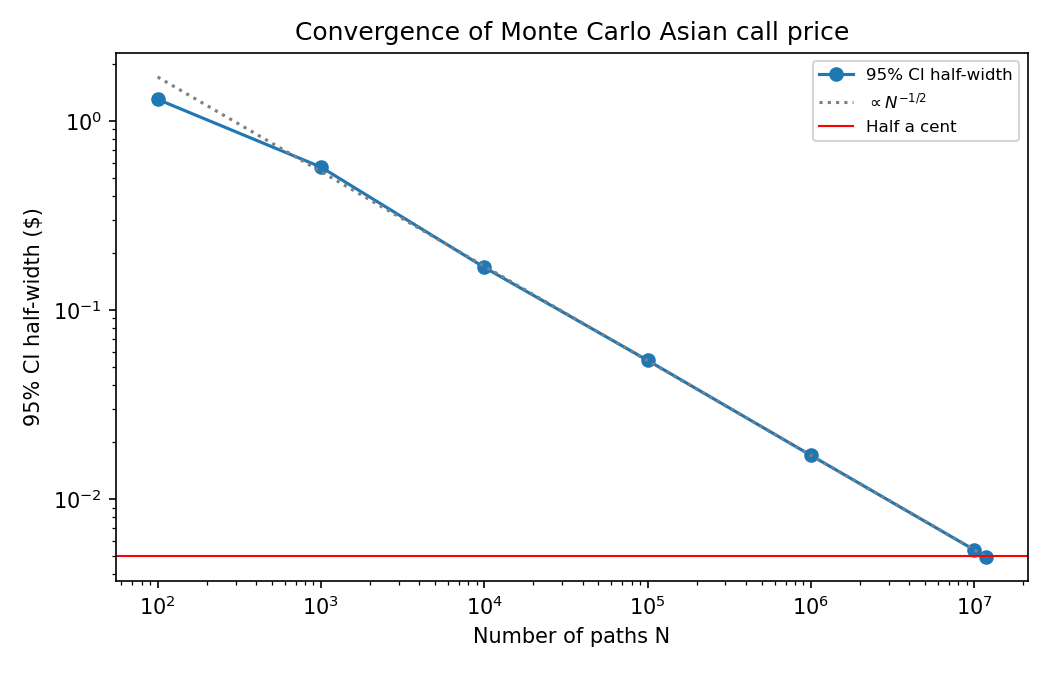
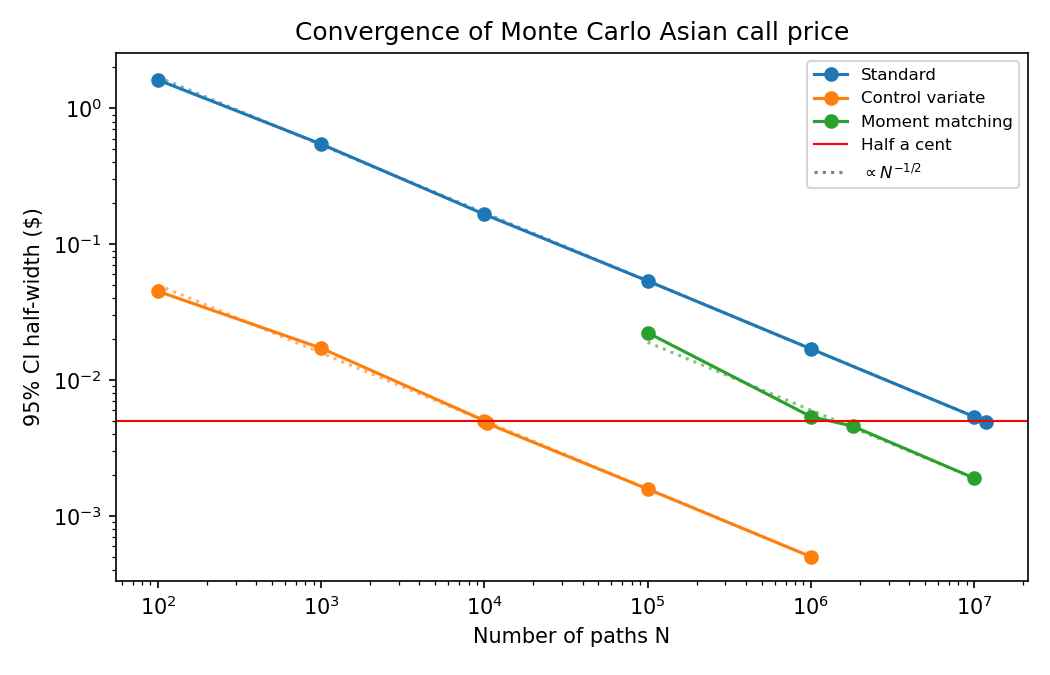
Add control variate and moment matching to Asian call, start notes
Control variate with the geometric Asian call cuts variance ~1,100x;
moment matching ~8x, with batch-mean standard errors and a measured
small-batch bias. notes.md collects results for the final report.

diff --git a/Monte Carlo Pricing of an Asian Call.py b/Monte Carlo Pricing of an Asian Call.py
@@ -1,6 +1,9 @@
 # Monte Carlo pricing of an arithmetic-average Asian call under Black-Scholes-Merton,
 # with a convergence study. There is no closed form for the arithmetic Asian, so the
 # simulator is validated on the geometric Asian call, which does have one.
+# Two variance reduction methods are compared with standard Monte Carlo:
+#   2a. control variate, using the geometric Asian call as the control
+#   2b. moment matching, rescaling simulated prices to their known means
 import os
 import time
 import numpy as np
@@ -14,6 +17,8 @@ from scipy.stats import norm
 S0, K, T, r, q, sigma, m = 100.0, 100.0, 1.0, 0.10, 0.0, 0.20, 50
 CENT = 0.005    # target 95% CI half-width: half a cent
 CHUNK = 10**5   # paths simulated at once; 10^5 x 50 doubles is 40 MB per array
+MM_BATCH = 10**4  # paths per moment-matching batch; its bias shrinks like 1/batch size
+DISC = np.exp(-r * T)
 PLOT_DIR = os.path.join(os.path.dirname(os.path.abspath(__file__)), "plots")
 
 
@@ -27,24 +32,37 @@ def geometric_asian_call(S0, K, T, r, q, sigma, m):
     return np.exp(-r * T) * (np.exp(mu + 0.5 * v) * norm.cdf(d1) - K * norm.cdf(d2))
 
 
-# Discounted arithmetic and geometric Asian call payoffs for n simulated paths.
-# Works in place on one (n, m) array to avoid temporary copies.
-def chunk_payoffs(n, rng):
+GEO_EXACT = geometric_asian_call(S0, K, T, r, q, sigma, m)
+
+
+# Log prices log S_t1..log S_tm for n paths, built in place in one (n, m) array
+def log_paths(n, rng):
     dt = T / m
     X = rng.standard_normal((n, m))
     X *= sigma * np.sqrt(dt)
     X += (r - q - 0.5 * sigma**2) * dt
     np.cumsum(X, axis=1, out=X)
     X += np.log(S0)                     # X[:, i] = log S_{t_(i+1)}
+    return X
+
+
+# Discounted arithmetic and geometric Asian call payoffs for n simulated paths
+def chunk_payoffs(n, rng):
+    X = log_paths(n, rng)
     geo_avg = np.exp(X.mean(axis=1))
     np.exp(X, out=X)
     arith_avg = X.mean(axis=1)          # average over t_1..t_m, excluding S0
-    disc = np.exp(-r * T)
-    return disc * np.maximum(arith_avg - K, 0.0), disc * np.maximum(geo_avg - K, 0.0)
+    return DISC * np.maximum(arith_avg - K, 0.0), DISC * np.maximum(geo_avg - K, 0.0)
 
 
-# Monte Carlo estimates for N paths, simulated in chunks. Running sums of Y and
+def mean_se(s, s2, N):
+    mean = s / N
+    return mean, np.sqrt((s2 - N * mean**2) / (N - 1) / N)
+
+
+# Standard Monte Carlo for N paths, simulated in chunks. Running sums of Y and
 # Y^2 give the same mean and standard error as one array of all N payoffs.
+# Also returns the geometric Asian estimate from the same paths for validation.
 def mc_asian(N, rng, chunk=CHUNK):
     sums = np.zeros(4)  # sum Y_arith, sum Y_arith^2, sum Y_geo, sum Y_geo^2
     done = 0
@@ -53,34 +71,111 @@ def mc_asian(N, rng, chunk=CHUNK):
         Ya, Yg = chunk_payoffs(n, rng)
         sums += [Ya.sum(), Ya @ Ya, Yg.sum(), Yg @ Yg]
         done += n
+    return mean_se(sums[0], sums[1], N) + mean_se(sums[2], sums[3], N)
 
-    def mean_se(s, s2):
-        mean = s / N
-        return mean, np.sqrt((s2 - N * mean**2) / (N - 1) / N)
 
-    return mean_se(sums[0], sums[1]) + mean_se(sums[2], sums[3])
+# Optimal control variate coefficient b = Cov(Y_arith, Y_geo) / Var(Y_geo),
+# estimated on a separate pilot so the main estimator stays unbiased
+def control_variate_coef(n, rng):
+    Ya, Yg = chunk_payoffs(n, rng)
+    return np.cov(Ya, Yg)[0, 1] / Yg.var(ddof=1)
+
+
+# 2a. Control variate: Y_cv = Y_arith - b (Y_geo - E[Y_geo]). The correction has
+# mean zero, so Y_cv is unbiased, and its variance is (1 - rho^2) Var(Y_arith).
+def mc_control_variate(N, rng, b, chunk=CHUNK):
+    s = s2 = 0.0
+    done = 0
+    while done < N:
+        n = min(chunk, N - done)
+        Ya, Yg = chunk_payoffs(n, rng)
+        Y = Ya - b * (Yg - GEO_EXACT)
+        s, s2 = s + Y.sum(), s2 + Y @ Y
+        done += n
+    return mean_se(s, s2, N)
+
+
+# 2b. Moment matching: within a batch of n paths, rescale the prices at each date
+# so their sample mean equals the true mean E[S_t] = S0 exp((r - q) t). This makes
+# the paths in a batch dependent, so the usual i.i.d. standard error no longer
+# applies; it is computed instead from independent batch means. Dividing by a
+# sample mean also biases the estimator by O(1/n), so batches must be large.
+MM_TARGETS = S0 * np.exp((r - q) * T / m * np.arange(1, m + 1))
+
+
+def mc_moment_matching(N, rng, n=MM_BATCH):
+    batches = N // n
+    per_chunk = max(1, CHUNK // n)  # small batches are matched several at a time
+    means = np.empty(batches)
+    for i in range(0, batches, per_chunk):
+        k = min(per_chunk, batches - i)
+        S = np.exp(log_paths(k * n, rng)).reshape(k, n, m)
+        S *= MM_TARGETS / S.mean(axis=1, keepdims=True)
+        means[i:i + k] = DISC * np.maximum(S.mean(axis=2) - K, 0.0).mean(axis=1)
+    return means.mean(), means.std(ddof=1) / np.sqrt(batches)
+
+
+# Paths needed for a 95% CI half-width of half a cent, given a per-path standard
+# deviation from a pilot run. The margin covers sampling noise in the pilot's
+# own estimate: 2% suits i.i.d. pilots. Moment matching gets 30%: its pilot
+# standard deviation comes from 400 batch means (~3.5% noise, ~7% in N), and the
+# final run's own standard error comes from only ~200 batch means (~5% noise).
+# N is rounded up to a whole number of batches.
+def paths_for_cent(sd, margin=1.02, multiple=1):
+    N = int(np.ceil(margin * (1.96 * sd / CENT) ** 2))
+    return -(-N // multiple) * multiple
 
 
 # Best-of-`repeats` wall time; large runs are timed once since they take seconds
-def timed(N, rng):
+def timed(fn, N, rng):
     repeats = 3 if N <= 10**6 else 1
     best = np.inf
     for _ in range(repeats):
         t0 = time.perf_counter()
-        result = mc_asian(N, rng)
+        result = fn(N, rng)
         best = min(best, time.perf_counter() - t0)
     return result, best
 
 
-def plot_results(df):
-    os.makedirs(PLOT_DIR, exist_ok=True)
+def convergence_table(fn, Ns, rng):
+    rows = []
+    for N in Ns:
+        (price, se), elapsed = timed(fn, N, rng)
+        rows.append({
+            "N": N,
+            "MC price": price,
+            "Std error": se,
+            "CI lower": price - 1.96 * se,
+            "CI upper": price + 1.96 * se,
+            "Time (s)": elapsed,
+            "Cent accurate": 1.96 * se < CENT,
+        })
+    return pd.DataFrame(rows)
 
-    # CI half-width against N on log-log axes, with a N^(-1/2) guide
+
+def print_table(title, df):
+    print(f"{title}\n" + df.to_string(index=False, formatters={
+        "N": "{:,}".format,
+        "MC price": "{:.4f}".format,
+        "Std error": "{:.5f}".format,
+        "CI lower": "{:.4f}".format,
+        "CI upper": "{:.4f}".format,
+        "Time (s)": "{:.2e}".format,
+    }) + "\n")
+
+
+def plot_results(tables):
+    os.makedirs(PLOT_DIR, exist_ok=True)
+    colors = {"Standard": "C0", "Control variate": "C1", "Moment matching": "C2"}
+
+    # CI half-width against N on log-log axes, with N^(-1/2) guides
     fig, ax = plt.subplots(figsize=(7, 4.5))
-    Ns = df["N"].to_numpy(dtype=float)
-    ax.loglog(Ns, 1.96 * df["Std error"], "o-", label="95% CI half-width")
-    ax.loglog(Ns, 1.96 * df["Std error"].iloc[-1] * np.sqrt(Ns[-1] / Ns), ":", color="gray", label=r"$\propto N^{-1/2}$")
+    for label, df in tables.items():
+        Ns = df["N"].to_numpy(dtype=float)
+        ax.loglog(Ns, 1.96 * df["Std error"], "o-", color=colors[label], label=label)
+        ax.loglog(Ns, 1.96 * df["Std error"].iloc[-1] * np.sqrt(Ns[-1] / Ns), ":", color=colors[label], alpha=0.6)
     ax.axhline(CENT, color="red", lw=1, label="Half a cent")
+    ax.plot([], [], ":", color="gray", label=r"$\propto N^{-1/2}$")
     ax.set_xlabel("Number of paths N")
     ax.set_ylabel("95% CI half-width ($)")
     ax.set_title("Convergence of Monte Carlo Asian call price")
@@ -88,11 +183,14 @@ def plot_results(df):
     fig.tight_layout()
     fig.savefig(os.path.join(PLOT_DIR, "asian_convergence_error.png"), dpi=150)
 
-    # Price estimates with 95% CIs against N, around the largest-N estimate
+    # Price estimates with 95% CIs against N, around the most accurate estimate
     fig, ax = plt.subplots(figsize=(7, 4.5))
-    ax.errorbar(Ns, df["MC price"], yerr=1.96 * df["Std error"], fmt="o", capsize=3, label="MC estimate")
-    ax.axhline(df["MC price"].iloc[-1], color="black", lw=1,
-               label=f"Largest-N estimate {df['MC price'].iloc[-1]:.4f}")
+    for (label, df), shift in zip(tables.items(), (0.92, 1.0, 1.08)):
+        ax.errorbar(df["N"] * shift, df["MC price"], yerr=1.96 * df["Std error"],
+                    fmt="o", color=colors[label], capsize=3, label=label)
+    best = min(tables.values(), key=lambda df: df["Std error"].iloc[-1])
+    ax.axhline(best["MC price"].iloc[-1], color="black", lw=1,
+               label=f"Most accurate estimate {best['MC price'].iloc[-1]:.4f}")
     ax.set_xscale("log")
     ax.set_xlabel("Number of paths N")
     ax.set_ylabel("Asian call price ($)")
@@ -105,19 +203,25 @@ def plot_results(df):
 
 if __name__ == "__main__":
     rng = np.random.default_rng(seed=42)
-    geo_exact = geometric_asian_call(S0, K, T, r, q, sigma, m)
 
-    # Pilot run estimates the payoff standard deviation, which gives the number
-    # of paths needed for a 95% CI half-width of half a cent. The 2% margin covers
-    # sampling noise in the pilot's own standard deviation estimate.
+    # Pilot runs estimate each method's per-path standard deviation, which gives
+    # the number of paths it needs for cent accuracy
     pilot = 10**6
     _, se_pilot, _, _ = mc_asian(pilot, rng)
-    payoff_sd = se_pilot * np.sqrt(pilot)
-    N_needed = int(np.ceil(1.02 * (1.96 * payoff_sd / CENT) ** 2))
+    b = control_variate_coef(10**5, rng)
+    cv = lambda N, rng: mc_control_variate(N, rng, b)
+    sd = {
+        "Standard": se_pilot * np.sqrt(pilot),
+        "Control variate": cv(pilot, rng)[1] * np.sqrt(pilot),
+        "Moment matching": mc_moment_matching(4 * pilot, rng)[1] * np.sqrt(4 * pilot),
+    }
+    N_needed = {label: paths_for_cent(sd[label]) for label in ("Standard", "Control variate")}
+    N_needed["Moment matching"] = paths_for_cent(sd["Moment matching"], 1.30, MM_BATCH)
 
+    # Standard Monte Carlo, with the geometric Asian check on the same paths
     rows, geo_rows = [], []
-    for N in sorted([10**k for k in range(2, 8)] + [N_needed]):
-        (price, se, geo_price, geo_se), elapsed = timed(N, rng)
+    for N in sorted([10**k for k in range(2, 8)] + [N_needed["Standard"]]):
+        (price, se, geo_price, geo_se), elapsed = timed(mc_asian, N, rng)
         rows.append({
             "N": N,
             "MC price": price,
@@ -131,23 +235,57 @@ if __name__ == "__main__":
             "N": N,
             "MC geo price": geo_price,
             "Std error": geo_se,
-            "Abs error": abs(geo_price - geo_exact),
-            "Exact in CI": abs(geo_price - geo_exact) <= 1.96 * geo_se,
+            "Abs error": abs(geo_price - GEO_EXACT),
+            "Exact in CI": abs(geo_price - GEO_EXACT) <= 1.96 * geo_se,
         })
+    tables = {"Standard": pd.DataFrame(rows)}
+    geo_results = pd.DataFrame(geo_rows)
 
-    results, geo_results = pd.DataFrame(rows), pd.DataFrame(geo_rows)
+    tables["Control variate"] = convergence_table(
+        cv, sorted([10**k for k in range(2, 7)] + [N_needed["Control variate"]]), rng)
+    tables["Moment matching"] = convergence_table(
+        mc_moment_matching, sorted([10**5, 10**6, 10**7, N_needed["Moment matching"]]), rng)
+
     pd.set_option("display.width", 120)
-    print("Arithmetic Asian call\n" + results.to_string(index=False, formatters={
-        "N": "{:,}".format,
-        "MC price": "{:.4f}".format,
-        "Std error": "{:.5f}".format,
-        "CI lower": "{:.4f}".format,
-        "CI upper": "{:.4f}".format,
-        "Time (s)": "{:.2e}".format,
-    }))
-    print(f"\nPayoff std dev ~ {payoff_sd:.3f}; N needed for cent accuracy ~ {N_needed:,}")
+    print_table("Arithmetic Asian call: standard Monte Carlo", tables["Standard"])
+    print_table(f"2a. Control variate (geometric Asian call, b = {b:.4f})", tables["Control variate"])
+    print_table(f"2b. Moment matching (batches of {MM_BATCH:,} paths; SE from batch means)",
+                tables["Moment matching"])
 
-    print(f"\nValidation: geometric Asian call, exact price {geo_exact:.6f}\n" + geo_results.to_string(
+    # Head-to-head: variance per path, paths and time needed for cent accuracy
+    t_plain = tables["Standard"].set_index("N").loc[N_needed["Standard"], "Time (s)"]
+    summary = pd.DataFrame([{
+        "Method": label,
+        "Std dev per path": s,
+        "Variance reduction": sd["Standard"] ** 2 / s**2,
+        "N for cent": N_needed[label],
+        "Time for cent (s)": tables[label].set_index("N").loc[N_needed[label], "Time (s)"],
+    } for label, s in sd.items()])
+    summary["Speedup"] = t_plain / summary["Time for cent (s)"]
+    print("Comparison at cent accuracy\n" + summary.to_string(index=False, formatters={
+        "Std dev per path": "{:.4f}".format,
+        "Variance reduction": "{:.1f}x".format,
+        "N for cent": "{:,}".format,
+        "Time for cent (s)": "{:.4f}".format,
+        "Speedup": "{:.0f}x".format,
+    }))
+    rho = np.sqrt(1 - sd["Control variate"] ** 2 / sd["Standard"] ** 2)
+    print(f"Implied correlation between arithmetic and geometric payoffs: {rho:.5f}")
+
+    # Moment-matching bias against batch size, measured against a precise
+    # control-variate price; 4 million paths per row
+    ref, ref_se = cv(4 * 10**6, rng)
+    bias_rows = []
+    for n in (10, 100, 1000, 10**4):
+        price, se = mc_moment_matching(4 * 10**6, rng, n)
+        bias_rows.append({"Batch size": n, "MM price": price, "Std error": se, "Bias": price - ref,
+                          "Bias / SE": (price - ref) / np.hypot(se, ref_se)})
+    print(f"\nMoment-matching bias by batch size (reference: control variate {ref:.5f} +/- {ref_se:.5f})\n"
+          + pd.DataFrame(bias_rows).to_string(index=False, formatters={
+              "Batch size": "{:,}".format, "MM price": "{:.5f}".format,
+              "Std error": "{:.5f}".format, "Bias": "{:+.5f}".format, "Bias / SE": "{:+.1f}".format}))
+
+    print(f"\nValidation: geometric Asian call, exact price {GEO_EXACT:.6f}\n" + geo_results.to_string(
         index=False, formatters={
             "N": "{:,}".format,
             "MC geo price": "{:.4f}".format,
@@ -155,5 +293,5 @@ if __name__ == "__main__":
             "Abs error": "{:.5f}".format,
         }))
 
-    plot_results(results)
+    plot_results(tables)
     print(f"\nPlots saved to {PLOT_DIR}")

diff --git a/notes.md b/notes.md
@@ -1,0 +1,50 @@
+# Project notes
+
+Working notes for the final report. Numbers are from the latest runs (seed 42). Rerun the scripts before writing the report, in case anything changes.
+
+Grading criteria from the PDF: (1) complete and correct results, (2) an organized report, (3) results explained with tables and plots, (4) efforts to reduce computation time, reported and explained.
+
+"Accurate to the cent" throughout means the 95% CI half-width is below $0.005, so the estimate rounds to the right cent with 95% confidence.
+
+## Part 1: European put
+
+`Monte Carlo Pricing of a European Put.py`. S₀ = K = 100, T = 0.5, r = 4%, q = 2%, σ = 20%.
+
+- Exact Black-Scholes price: **5.074637**.
+- Standard MC: payoff std dev ≈ 7.2, so cent accuracy needs **≈ 8.0M samples** (about 0.1 s).
+- Error falls like N^(−1/2), shown on the log-log plot; going 10× more accurate costs 100× the samples.
+- **1a, antithetic:** pairs (Z, −Z), with SE computed over the pair averages, not over individual payoffs. Gives **2.0× less variance**, cent accuracy at **≈ 4.0M samples** (about 0.04 s).
+- **Computation time:** NumPy vectorization is **≈ 55× faster** than a Python loop at N = 10⁵.
+- Figures: `plots/convergence_error.png`, `plots/convergence_price.png`.
+
+## Part 2: Asian call
+
+`Monte Carlo Pricing of an Asian Call.py`. S₀ = K = 100, T = 1, r = 10%, q = 0, σ = 20%, m = 50 dates, averaging over t₁…t₅₀ (excluding S₀).
+
+- **Validation:** there's no exact price for the arithmetic Asian, so the geometric Asian (exact price 6.893214) is priced on the same paths. Over 40 seeds the z-scores had mean −0.12 ± 0.16 and SD 0.98, consistent with no bias.
+- **Standard MC:** price ≈ **7.164–7.170**, payoff std dev ≈ 8.69, cent accuracy at **≈ 11.8M paths, ≈ 5 s**.
+- **Memory (criterion 4):** paths are simulated in chunks of 10⁵ (≈ 40 MB) with running sums of Y and Y², instead of one 10⁷ × 50 array (≈ 4 GB). In-place NumPy operations avoid temporary copies.
+- **2a, control variate** (geometric Asian, b ≈ 1.037 from an independent pilot, so the estimate stays unbiased):
+  - correlation between the arithmetic and geometric payoffs is **0.99956**, giving **≈ 1,140× less variance**;
+  - cent accuracy at **≈ 10,400 paths in ≈ 4 ms**, about **1,200× faster** than standard MC;
+  - best price estimate: **7.1644 ± 0.0005** at N = 10⁶.
+- **2b, moment matching** (rescale each date's prices so their sample mean equals S₀e^((r−q)t)):
+  - ≈ **8.4× less variance**, cent accuracy at **≈ 1.8M paths, ≈ 0.8 s** (≈ 6× faster);
+  - **standard error:** rescaling makes paths within a batch dependent, so the i.i.d. formula doesn't apply. Use batch means of independent batches instead;
+  - **bias:** the estimator is biased by roughly −2.2/n for batches of n paths (measured −19.6¢ at n = 10, −1.7¢ at n = 100, −0.3¢ at n = 1,000, about −0.1¢ at n = 10,000, which isn't significant). That's why batches are 10,000 paths;
+  - **margin:** a standard error estimated from about 200 batches is itself ±5% noisy, so the N for cent accuracy carries a 30% margin.
+- **Why the control variate wins:** the geometric average is almost a deterministic function of the arithmetic one for σ = 20%, so nearly all the noise cancels. Moment matching only fixes the first moment at each date.
+- Figures: `plots/asian_convergence_error.png`, `plots/asian_convergence_price.png`.
+
+## Part 3: American put (Longstaff–Schwartz)
+
+Not started. S₀ = K = 100, T = 1/12, r = 4%, q = 2%, σ = 20%. Study how N (paths), M (time steps) and the number of regressors affect the price. Optional 3a is a BBSR benchmark (binomial Black-Scholes with Richardson extrapolation); optional 3b is a literature review of LSM improvements.
+
+## Report ideas
+
+- Use one table per part (N, price, SE, CI, error, time) and the two plots per part.
+- Show a "computation time" summary across parts: vectorization → chunking → antithetic → control variate (the biggest win) → moment matching.
+- Point out what went wrong and was fixed along the way. It shows rigor:
+  - an undersized pilot that missed cent accuracy, fixed with a larger pilot and a safety margin;
+  - the moment-matching bias for small batches.
+- **Possible extra:** the Asian put experiment with path equivalence classes (`Asian Put via Path Equivalence Classes.md`) prices a discretely monitored Asian exactly on a trinomial tree. It compares the tree price with GBM Monte Carlo and could be an appendix.

diff --git a/README.md b/README.md
@@ -17,7 +17,7 @@ The script also compares standard Monte Carlo with antithetic variates, benchmar
 
 ## Asian call
 
-Prices an arithmetic-average Asian call (50 monitoring dates) by Monte Carlo, simulating paths in chunks to keep memory bounded. There is no closed form for the arithmetic Asian, so the same paths also price the geometric Asian call, which is checked against its exact closed-form price.
+Prices an arithmetic-average Asian call (50 monitoring dates) by Monte Carlo, simulating paths in chunks to keep memory bounded. There is no closed form for the arithmetic Asian, so the same paths also price the geometric Asian call, which is checked against its exact closed-form price. It also compares two variance reduction methods with standard Monte Carlo: a control variate using the geometric Asian call (about 1,100× less variance) and moment matching (about 8× less variance, with its small-batch bias measured).
 
 ## Asian put via path equivalence classes
 
